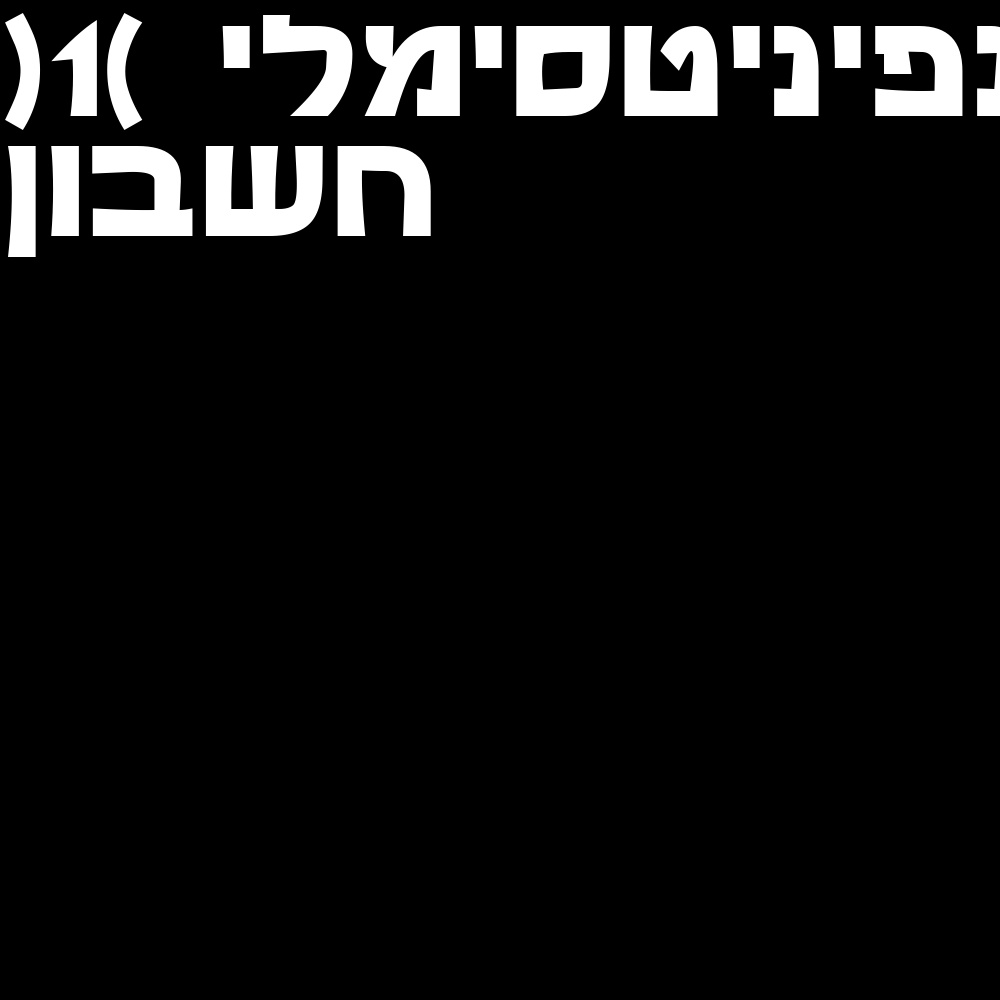
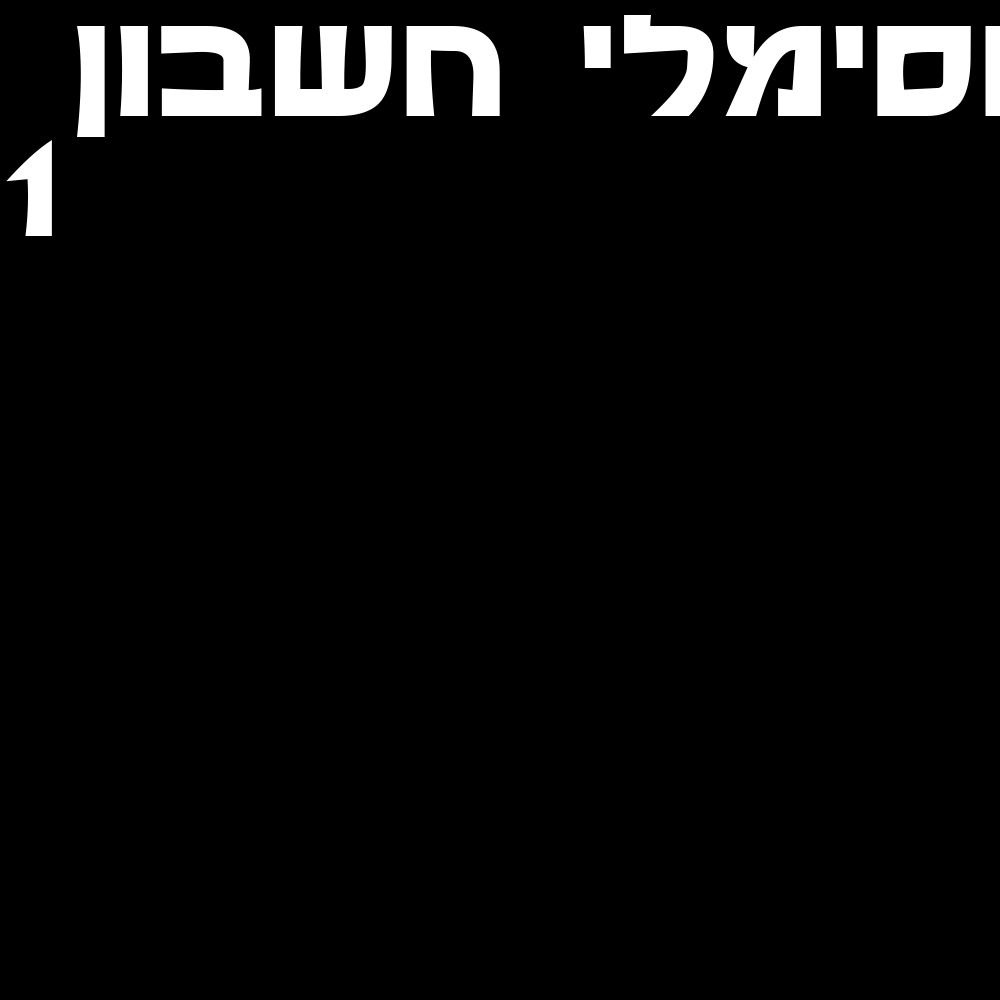
fucking hebrew

Changed region(s): [[0.0, 0.0, 0.837, 0.279], [0.868, 0.0, 1.0, 0.124]]

diff --git a/main.py b/main.py
@@ -40,8 +40,12 @@ def TEXT_TO_ICON(Chunks, Text, FilePath):
     result_o = np.array(im_p)
     cv2.imwrite(FilePath, result_o)
 
-TEXT_TO_ICON(20, """()1( ילמיסטיניפניא 
-ןובשח""", "pfp.jpg")
+TEXT_TO_ICON(20, """
+ןובשח
+ילמיסטיניפניא 
+1 
+             
+""", "pfp.jpg")
 
 
 
